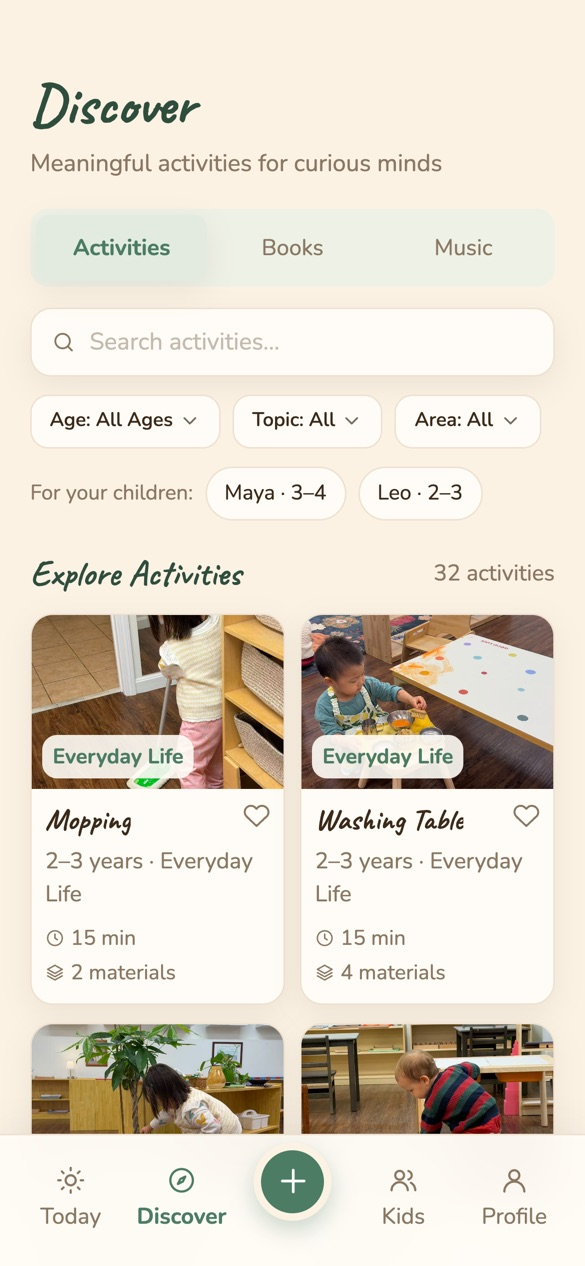
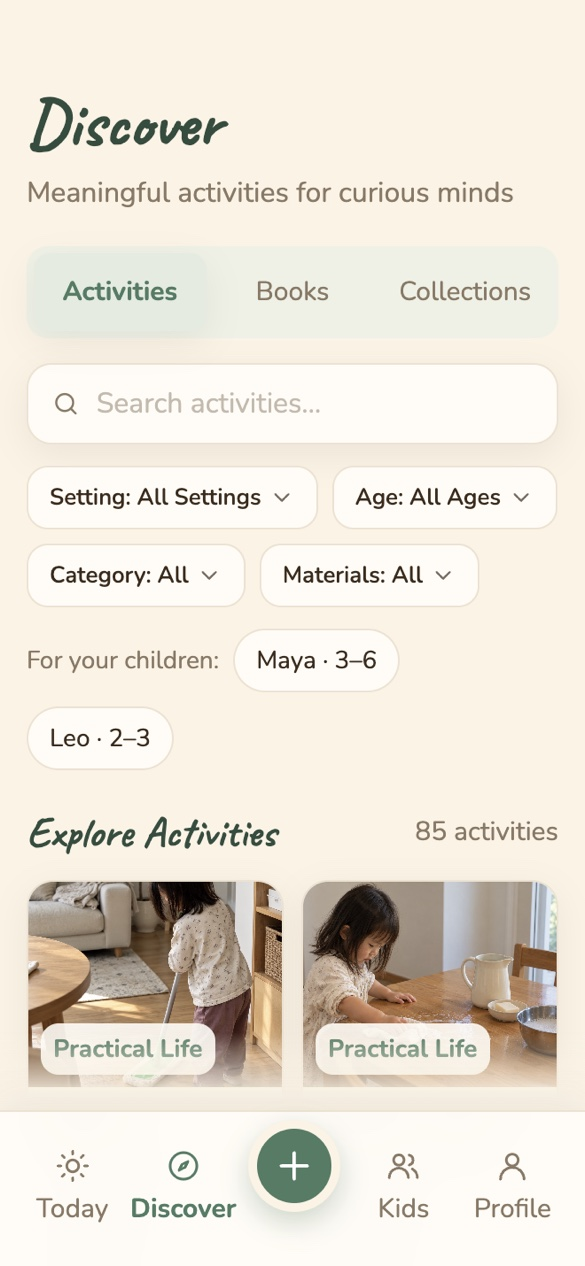
docs: refresh README screenshots for current UI
The Discover tab layout, category labels, and the Water Pouring -> Getting
Water activity rename had all changed since the screenshots were last
captured, making them stale. Recaptured all 6 screenshots against the
current app using the same demo family (Maya and Leo Hao) and bundled
stock photos as the originals, and updated the README captions/alt text
to match (Discover now shows Activities/Books/Collections, and the
activity detail shot is Getting Water).

diff --git a/README.md b/README.md
@@ -27,8 +27,8 @@ Each day it suggests one hands-on activity suited to each child's age, with clea
 <table>
   <tr>
     <td align="center" width="33%"><img src="docs/screenshots/today.jpg" alt="Today screen with today's inspiration for Maya" width="240"><br><sub><b>Today</b>: one idea per child</sub></td>
-    <td align="center" width="33%"><img src="docs/screenshots/discover.jpg" alt="Discover screen with the activity library" width="240"><br><sub><b>Discover</b>: activities, books and music</sub></td>
-    <td align="center" width="33%"><img src="docs/screenshots/activity-detail.jpg" alt="Water Pouring activity details" width="240"><br><sub><b>Activity</b>: skills, materials and steps</sub></td>
+    <td align="center" width="33%"><img src="docs/screenshots/discover.jpg" alt="Discover screen with the activity library" width="240"><br><sub><b>Discover</b>: activities, books and collections</sub></td>
+    <td align="center" width="33%"><img src="docs/screenshots/activity-detail.jpg" alt="Getting Water activity details" width="240"><br><sub><b>Activity</b>: skills, materials and steps</sub></td>
   </tr>
   <tr>
     <td align="center"><img src="docs/screenshots/moments.jpg" alt="My Moments timeline" width="240"><br><sub><b>Moments</b>: photos and notes, by month</sub></td>
@@ -42,7 +42,7 @@ Each day it suggests one hands-on activity suited to each child's age, with clea
 ## Features
 
 - **Today.** A daily activity idea for each child, a look back at a moment from earlier weeks, and a short reflection for parents.
-- **Discover.** A library of Montessori-style activities you can search and filter by age, topic and learning area, plus curated picture books (English and Chinese editions) and music activities.
+- **Discover.** A library of Montessori-style activities (including interactive music activities) you can search and filter by setting, age, category and materials, plus curated picture books (English and Chinese editions) and themed collections.
 - **Activity details.** The skills an activity builds, what you'll need, and step-by-step guidance. Save it, add it to your week, or mark it as tried.
 - **Moments.** Photos and a few words, grouped by month, searchable, with a week-by-week recap.
 - **Child profiles.** Each child has a journal and a history of the activities they've tried, so you can see their own path.
